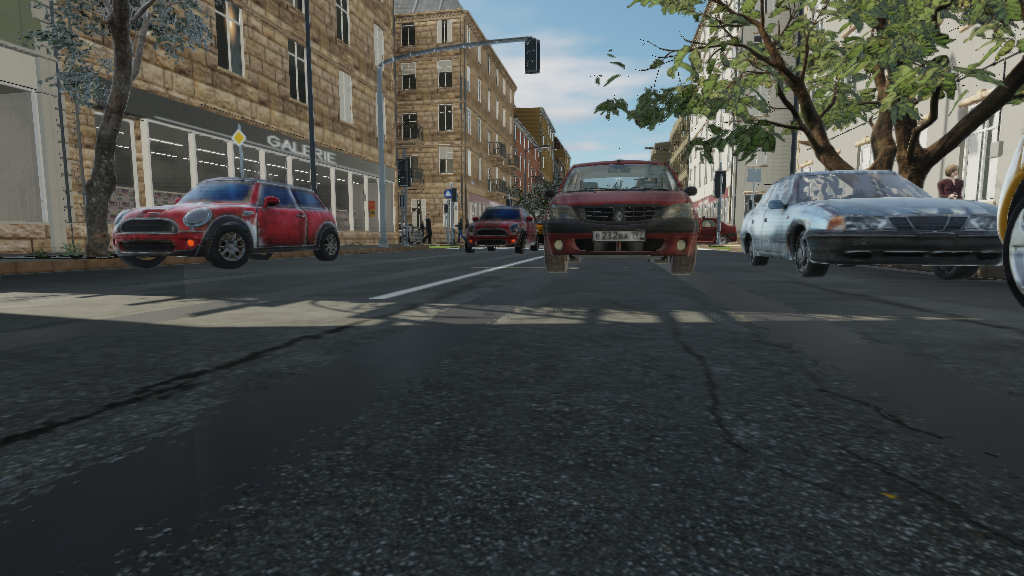
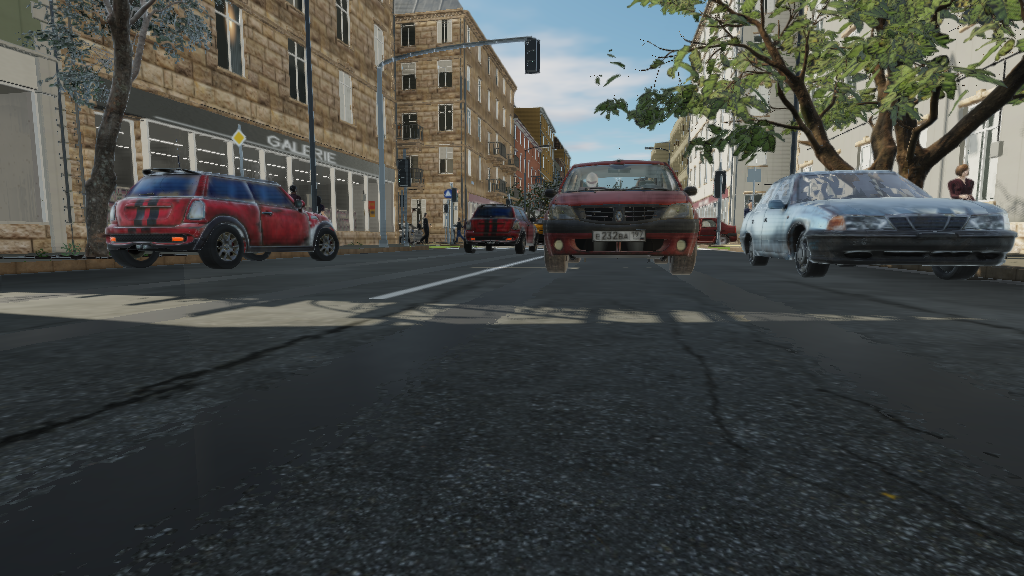
docs: the sixth pass -- behaviour, coherence, and half the draw calls
`docs/visual-overhaul-6/`: the report, the before-and-after set for all
eighteen viewpoints with the pairs, ten flagship frames at 1920 x 1080 and
six of them resolved at two samples, the walkthrough's six legs, the
line-up's stride and face pairs, the tree-cliff pair, the vehicle
orientation sheet, and the performance tables.

BEFORE is the fifth pass's own committed `after/` set, which is exactly the
state this pass started from -- same seed, same cameras, same settings, same
resolution -- so the pairs compare the content and nothing else.

`docs/screenshots/` is re-shot, because the scene changed under it and
`check-screenshots.sh` is a regression test against it; it passes with the
new set at 0.000 per cent of pixels differing.

`docs/cna-findings.md` gains this pass's notes: no new CNA defect, nothing
in any framework repository modified, and one behaviour recorded for the
first time -- a surface behind glass is lit as though the glass were not
there, which is right for a windscreen seen from outside and is why the
drivers' skin tints are a stop darker than the crowd's.

README and plan.md brought up to date: the new flags, the two atlas
scripts and the orientation rule in the pipeline section, the four new test
cases, the performance table with a Radeon row, and the limitations that
changed -- a face is now a painting with relief on it rather than a flat
one, and the largest remaining draw-call item is a person at three skinned
draws.

diff --git a/README.md b/README.md
@@ -119,10 +119,15 @@ and the shrubs in them, the manhole covers, the cafe tables and A-boards out on
 the footway by the bakeries, the crates and cartons by the shop doors, the
 refuse sacks by the bins, and a car under a cover in one bay are
 photogrammetry scans from Poly Haven, imported through CNA's own glTF pipeline
-and instanced like everything else. The trees within eighty metres of the
-junction are three scanned species -- a small tree, a broad island tree and a
-mature jacaranda -- each cut in Blender to a near and a far level of detail;
-the rest of the street's trees are the generated ones.
+and instanced like everything else. Every tree pit on the main street carries
+one of three scanned species -- a small tree, a broad island tree and a
+mature jacaranda -- each cut in Blender to a near and a far level of detail,
+and the district beyond the modelled frontage plants the same three at their
+far level. The generated trees are the fallback for a tree that has fetched
+no scans, and nowhere else: a generated tree beside a scanned one is a
+different green and a ball on a stick, and a row of them beginning where the
+scanned ones stopped was the most legible thing in the frame saying where
+the modelling ended.
 
 **The hero cafe.** One shop -- the one the shop-window and pavement-cafe
 viewpoints look into -- is built as a composed room rather than a dressed
@@ -162,11 +167,15 @@ painted: it is 240 m away.
 Punto GT, a Renault Logan, a VAZ-2104 estate, a Honda Civic, a Mini Cooper S,
 a 1980s saloon and a Mercedes Sprinter -- all CC-BY from Sketchfab authors
 publishing their own work, normalised in Blender by
-`scripts/blender-vehicles.py` and dealt into the parking bays of the main
-street within seventy metres of the junction by `CityScene::buildHeroVehicles`,
-never the same model in two neighbouring bays. They are static, so the
-reflection probes hold them and the shop windows reflect them. The loft each
-one replaces stays in the simulation and is not drawn.
+`scripts/blender-vehicles.py` and dealt into *every* parking bay of the main
+street within a hundred and twenty-six metres of the junction by
+`CityScene::buildHeroVehicles`, never the same model in two neighbouring
+bays. They are static, so the reflection probes hold them and the shop
+windows reflect them. The loft each one replaces stays in the simulation and
+is not drawn. The bays are dealt into four rings of thirty-four metres,
+because a level of detail is chosen once per instance group and one car
+three metres away would otherwise draw every copy of that model down the
+whole street at full detail.
 
 **The moving parts.** The traffic is the same eight authored cars, driven:
 `scripts/blender-vehicles.py` finds each model's four tyres, splits the
@@ -182,6 +191,18 @@ with seats and a steering wheel. Bicycles lean on the stands. They follow the ve
 their brake lamps lit, and turn through the junction on a Bézier. They are the fallback for a tree
 without the derived cars, and the simulation the authored cars are driven by.
 
+Every moving car has somebody at the wheel: a seated figure, rigid and in one
+piece, drawn inside thirty metres and placed from the vehicle class's own
+seat position. Two draws, because through a windscreen at a glancing angle
+what reads is a head, two shoulders and two arms on the wheel.
+
+And every car is *solid*. In walk mode the camera cannot pass through a
+parked one, and a moving one that drives into it eases it out through the
+nearest face at walking pace rather than carrying it down the road. So are
+the lamp columns, the signal and sign posts, the bollards, the bins, the
+hydrants, the cabinets, the benches, the planters, the bike stands, the bus
+shelter and every tree up to its clear stem.
+
 Fifty-odd people over eight variants, each one mesh per material on a
 nineteen-bone skeleton and animated on the GPU by `SkinnedPbrEffect` from
 three walks and three ways of standing built in code: an ordinary pace, a
@@ -190,7 +211,12 @@ wait that shifts its weight and looks about, one that reads a phone, one
 with the hands together. Each person is dealt a gait and a stance, a stride
 scaled to their height, a place on the footway rather than its centre line,
 and turns a corner over half a second; one in six walks with the person in
-front. The eight are built from MakeHuman's CC0 base
+front. Nobody walks through anybody: each direction of travel keeps to its
+own side of the footway, a follower takes the pace of the person in front,
+and one ordered separation pass a frame steps anyone standing in somebody
+else aside. At a crossing they take a place in a loose cluster at the kerb
+-- five abreast, three rows deep, filled from the middle out -- and step off
+in rows when the man goes green. The eight are built from MakeHuman's CC0 base
 mesh and system wardrobe -- skins, clothes, shoes, hair, eyes -- by
 `scripts/blender-people.py` with MPFB in Blender, posed with the arms down,
 their authored weights folded from MakeHuman's 137 bones onto this project's
@@ -227,10 +253,14 @@ densest.
 `docs/visual-overhaul/` holds the first overhaul's before-and-after set,
 `docs/visual-overhaul-2/` the second pass's, `docs/visual-overhaul-3/` the
 third's, `docs/visual-overhaul-4/` the fourth's, and
-`docs/visual-overhaul-5/` the fifth's: the authored cars driven, three gaits,
-dressed windows and shutters, the cafe composed further, mip chains for every
-imported image and supersampled stills, each viewpoint before beside after,
-flagship frames at 1920 × 1080, and what it cost.
+`docs/visual-overhaul-5/` the fifth's, and `docs/visual-overhaul-6/` the
+sixth's: a car that drove backwards, a walk with the legs a third of a metre
+apart, four people standing in one another at a crossing, a camera that
+walked through parked cars, thirty cars with nobody at the wheel, and the
+lofted cars and generated trees that gave away where the modelling stopped
+-- with the draw-call consolidation that paid for the fixes, each viewpoint
+before beside after, a walk through the street rather than a look at it, and
+what it cost.
 
 ## Building
 
@@ -342,7 +372,8 @@ The command line, in full, is `--help`. The ones that matter:
 | `--width`, `--height`, `--seed` | Window size and the procedural seed |
 | `--night` | Civil twilight: the sun four degrees under the horizon and the street lighting itself |
 | `--frames <n>` | Render *n* frames, then print the frame-time profile and the batch reports |
-| `--lineup` | Park one of every vehicle in a row, with a side and a front viewpoint for each |
+| `--lineup` | Park one of every vehicle in a row, with a side, a front and a driver's-window viewpoint for each, and three rows of people: standing, frozen at heel strike, and through the walk cycle |
+| `--walkthrough <dir>` | Walk the camera through the street with collision on, write a frame per leg, and report what it met: how far it got, what stopped it, how close it came to a car, whether it was ever inside one, and the worst disagreement between a moving car's drawn heading and its direction of travel |
 | `--viewpoint <n>` | Start at named viewpoint *n* |
 | `--camera x,y,z,yaw,pitch` | Start at an explicit camera, in radians |
 | `--screenshot <file.png>` | Write one frame and exit |
@@ -722,7 +753,22 @@ exports every alpha as BLEND) and no colour attribute (GLTF-209).
 `scripts/blender-vehicles.py` normalises a downloaded car: backdrop dropped,
 faced +Z at the real car's length, one mesh per material, a far level of
 detail, textures capped at 1k, glass blended and everything else opaque, and
-the triangles reversed for CNA's cull (CNA-F15). `scripts/blender-people.py`
+the triangles reversed for CNA's cull (CNA-F15). *Which* end is the nose is
+measured from the body's own shape rather than declared per model
+(`scripts/vehicle_pose.py`), because a declaration nothing checks is how a
+car shipped driving permanently in reverse; `scripts/vehicle-orientation.py`
+holds the exported files to it as a CTest. `scripts/vehicle-atlas.py` then
+merges what can be merged: every material becomes three images -- a constant
+colour is a one-pixel texture -- those go into one atlas per channel with a
+cell each, the UVs are remapped into the cell and the primitives that now
+share a material are concatenated, with each material's roughness and
+metalness kept exactly in the green and blue of the merged map. Glass, a
+material whose UVs tile, and any textured material covering more than a
+fifth of the car are left alone. The Astra goes from thirty-three draw calls
+to eight. `scripts/people-atlas.py` does the same for a person -- six parts
+to three, the skin kept apart because it is the face -- and derives a normal
+map for that skin from the high frequencies of its own albedo, which is
+where the relief in a painted face actually is. `scripts/blender-people.py`
 builds a person with MPFB, poses the arms down, bakes the targets, applies the
 masks and the armature, folds the rig's weights onto this project's nineteen
 bones and writes the mesh in this project's character format beside its
@@ -736,7 +782,7 @@ generated trees, the lofted cars and the generated figures stand in.
 ctest --test-dir build --output-on-failure
 ```
 
-Thirteen suites over the parts of the street that can be checked without a device:
+Fourteen suites over the parts of the street that can be checked without a device:
 the signal controller, the traffic model, the walk graph, mesh building, the
 layout, the settings parser, the camera frustum, the mip-chain generation the
 content pipeline depends on, the shapes and surfaces the first visual overhaul
@@ -778,7 +824,23 @@ sill and splash rises from the pavement; that a shelf of stock is mostly pale
 card; that a poster is opaque paper with print on it; and that render is
 cracked a little and not crazed.
 
-`appearance_tests` is the newest and the most opinionated: nine cases, each one
+The newest are the ones this pass's live-play defects made necessary.
+`vehicle_orientation` reads every derived car straight out of its exported
+file, with no Blender, and fails when one faces -Z or has its front wheels
+behind its rear ones. `gait_tests` gained a case that evaluates the walk and
+idle clips through both rigs the project animates -- the generated one and a
+copy of the widest imported one -- samples the whole cycle and refuses feet
+more than 30 cm apart: MakeHuman's A-posed rig diverges the legs all the way
+down, so an imported figure used to walk with its ankles a third of a metre
+either side of its centre line. `pedestrian_tests` runs a hundred and twenty
+people through four minutes of signal cycles and checks every pair at every
+sampled step, because "four people at a crossing standing in one another" is
+a state, not a frame. `traffic_system_tests` checks a car as a solid: solid
+at its centre, hollow over its roof and under its sills, longer than it is
+wide and turned the way the car is, and every point pushed out of one ends
+up outside every one.
+
+`appearance_tests` is the most opinionated: nine cases, each one
 a defect that was shipped, found by looking at a rendering, and fixed. Not one
 of them would have been caught by a pixel comparison, because they are all
 structural, and each has a number attached that says whether a surface is the
@@ -823,18 +885,28 @@ them again. The overlay's headline is an *exponential* average and its
 breakdown is one frame's stage times: right for flying a camera around, wrong
 for tuning — it once read 214 ms on a frame that took 778.
 
-| | Before the second pass (`27f92a8`) | Before the third (`83dc8e1`) | Before the fourth (`c31ae23`) | Before the fifth (`c171cec`) | Now |
-| --- | --- | --- | --- | --- | --- |
-| Scene build | 7 s from compiled content | 7 s, then 6–8 s baking 29 reflection probes | 12 s, then 7 s of probes | 17 s, then 8 s of probes | 27 s on a loaded machine, then 10 s of probes |
-| Static batches | 1 187 | 1 586 | 1 634 | 1 655 | 1 721 |
-| Textures | 198 catalogue surfaces plus per-shop signage and the imported models' own | the same, plus a poster atlas and a weathering-decal atlas | the same, fourteen of them scans at 1024 px, plus twenty scanned models' own | the same, plus forty-four scanned models', eight cars' at 1k and eight people's with mip chains | the same, every imported image now compiled with a mip chain, two cars' paint at 2k |
-| Plots, vehicles, people | 42, 74, 78 | 42, 74, 78 | 42, 74 + one covered car, 78 | 42, 74 of which 8 are authored, 78 over 8 authored people | 42, 74 all drawn as the 8 authored models, 78 over 8 people in 3 gaits |
-| Draw calls per frame | 1 361, of which 160 are skinned | 1 535 | 1 564 | 1 700 | 1 750–1 780 |
-| Shadow draw calls | 2 840 | 3 115 | 3 303 | 3 563 | 3 525 |
-| Triangles drawn | 560 k | 603 k | 1 695 k, of which the hero trees are most | 5 150 k, of which the trees are most | 5 620 k |
-| Frame, 1024×576 | 34–45 ms median | 41–51 ms median | 47–59 ms median, interleaved with 52–64 for `83dc8e1` on a busy machine | 59–62 ms median against 47 for `c31ae23` | 71–77 ms median against 72–86 for `c171cec`, both on a machine running other builds |
-| Frame, 1920×1080 | 46 ms | 47 ms | 64 ms against 60 | 76 ms | not re-measured |
-| Frame, `--night` | 34 ms | 47 ms | unchanged by this pass | 56 ms | not re-measured |
+| | Before the second pass (`27f92a8`) | Before the third (`83dc8e1`) | Before the fourth (`c31ae23`) | Before the fifth (`c171cec`) | Before the sixth (`6a40427`) | Now |
+| --- | --- | --- | --- | --- | --- | --- |
+| Scene build | 7 s from compiled content | 7 s, then 6–8 s baking 29 reflection probes | 12 s, then 7 s of probes | 17 s, then 8 s of probes | 27 s on a loaded machine, then 10 s of probes | 19–21 s, then 10 s of probes |
+| Static batches | 1 187 | 1 586 | 1 634 | 1 655 | 1 721 | 1 721 |
+| Textures | 198 catalogue surfaces plus per-shop signage and the imported models' own | the same, plus a poster atlas and a weathering-decal atlas | the same, fourteen of them scans at 1024 px, plus twenty scanned models' own | the same, plus forty-four scanned models', eight cars' at 1k and eight people's with mip chains | the same, every imported image now compiled with a mip chain, two cars' paint at 2k | the same, the cars' and the people's small materials merged into per-model atlases |
+| Plots, vehicles, people | 42, 74, 78 | 42, 74, 78 | 42, 74 + one covered car, 78 | 42, 74 of which 8 are authored, 78 over 8 authored people | 42, 74 all drawn as the 8 authored models, 78 over 8 people in 3 gaits | the same, every parked car authored and every moving one with a driver |
+| Draw calls per frame | 1 361, of which 160 are skinned | 1 535 | 1 564 | 1 700 | 1 784 | 1 407, of which 150 are skinned |
+| Shadow draw calls | 2 840 | 3 115 | 3 303 | 3 563 | 3 503 | 2 534 |
+| Triangles drawn | 560 k | 603 k | 1 695 k, of which the hero trees are most | 5 150 k, of which the trees are most | 5 620 k | 7 500 k |
+| Frame, 1024×576 (llvmpipe) | 34–45 ms median | 41–51 ms median | 47–59 ms median, interleaved with 52–64 for `83dc8e1` on a busy machine | 59–62 ms median against 47 for `c31ae23` | 71–77 ms median against 72–86 for `c171cec`, both on a machine running other builds | 54–55 ms median on a quiet one |
+| Frame, 1600×900 (Radeon 780M) | — | — | — | — | 81.3 ms (12.3 fps) | 59–63 ms (15.9–16.9 fps) |
+| Frame, 1920×1080 | 46 ms | 47 ms | 64 ms against 60 | 76 ms | not re-measured | not re-measured |
+| Frame, `--night` | 34 ms | 47 ms | unchanged by this pass | 56 ms | not re-measured | not re-measured |
+
+The sixth pass is the first that made the frame *shorter*. It did it by
+submitting less rather than by drawing less: a car went from thirty-three
+draw calls to eight and a person from six to three, both through content
+preprocessing, and the shadow pass is fitted to each cascade's slice of the
+camera frustum rather than to a disc around the camera. Three hundred and
+seventy-seven fewer draws and nine hundred and seventy fewer shadow draws,
+with a third more triangles in the frame and every parked car on the street
+an authored model. `docs/visual-overhaul-6/performance.md` has the tables.
 
 Those are from a 16-core machine that was busy with other work while it
 measured, hence the ranges; the first overhaul's table, from four cores, is in
@@ -886,6 +958,13 @@ moving car switches to its welded far copy at thirty-two metres, which took
 it back. `docs/visual-overhaul-5/performance.md` has the runs, and a profile
 on the machine's own GPU, where the frame is the shadow pass's draw calls.
 
+Against `6a40427`, the commit before the sixth pass, on the machine's own
+Radeon 780M at 1600 × 900: **81.3 ms to 59–63**, with 1 784 draw calls
+becoming 1 407 and 3 503 shadow draws becoming 2 534, while the triangles
+went from 5.6 M to 7.5 M and every parked car on the street became an
+authored model. `docs/visual-overhaul-6/performance.md` has the tables and
+the exact per-model draw counts.
+
 Against `83dc8e1`, the commit before the third pass, three interleaved pairs
 at 1024 × 576 came out 52.0 / 63.8 / 55.4 ms before against 47.2 / 52.1 /
 58.6 ms after, and one pair at 1920 × 1080 59.5 against 63.8: within noise,
@@ -903,6 +982,14 @@ materials, and alpha masking instead of blending everywhere except glass.
 
 ## Known limitations
 
+* **A person is three skinned draws and cannot be fewer without the
+  framework.** A skinned draw carries its own bone palette and cannot be
+  instanced, so fifty people is a hundred and fifty draw calls -- the
+  largest family in the frame by a factor of four. The parts that could be
+  merged have been (`scripts/people-atlas.py`); what is left is the face,
+  everything else opaque, and the hair, and going below that means either
+  putting the face through an atlas cell or a way to instance a palette,
+  which is CNA's.
 * **A skinned figure casts no shadow of its own.** CNA's cascade caster takes
   its world matrix from a uniform and knows nothing about a bone palette
   (`docs/cna-findings.md` CNA-F14), so each character carries a rigid stand-in
@@ -924,9 +1011,19 @@ materials, and alpha masking instead of blending everywhere except glass.
   lamps in their textures, so a driven one shows no lit lens when it brakes;
   the loft it stands in for did. A per-part emissive override for the parts
   named as lamps is the next step.
-* **The people's faces are painted.** MakeHuman's skins hold at four metres,
-  which is where a street is seen from, and at two metres a painted face is a
-  painted face.
+* **The people's faces are paintings with relief on them.** MakeHuman's skins
+  are colour and nothing else, so the normal map every face carries is
+  derived from the albedo's own high frequencies -- which is where a
+  nostril's depth and a lip's edge really are, and is a large improvement at
+  a metre on a matte surface. It is not skin: there is no subsurface term,
+  the hair is card sheets, and one figure's fringe hangs through an eye.
+* **The far skyline is blocks with printed façades.** The blocks that line
+  the two streets past the modelled frontage carry real window recesses,
+  shopfronts and cornices, and now the street's own scanned trees and its
+  own authored cars at their far level of detail; the scatter of taller
+  blocks beyond them, 240 m out, is still massing with a tiling image of a
+  storey on it. Walked rather than looked down, the district's own facades
+  are plainly cheaper than the modelled frontage.
 * **The hero trees, cars and people need Blender.** Their derived files are
   cut, normalised and generated by scripts that run inside Blender 4.3 with
   numpy on its Python path (`--python-use-system-env`), and the people need
@@ -942,10 +1039,6 @@ materials, and alpha masking instead of blending everywhere except glass.
 * **An imported single-sided part draws inside out** under CNA's default cull
   (CNA-F15). The derived cars and people carry reversed winding for it, and
   any other single-sided import will need the same.
-* **The far skyline is blocks with printed façades.** The blocks that line the
-  two streets past the modelled frontage now carry real window recesses,
-  shopfronts and cornices; the scatter of taller blocks beyond them, 240 m out,
-  is still massing with a tiling image of a storey on it.
 * **`--preset low` is untested on a machine that needs it.** It is built and it
   runs, but the decisions in it are reasoned rather than measured.
 * **Reflections are probe-based, static, and uncorrected for parallax.** A
@@ -984,6 +1077,11 @@ scripts/manifest-tool.py    reads the manifest for the build and the fetch
 scripts/prepare-surfaces.py turns scanned PBR sets into catalogue surfaces
 scripts/blender-tree-lod.py cuts a tree's levels of detail, in Blender
 scripts/blender-vehicles.py normalises a downloaded car into two levels of detail with its wheels split off, in Blender
+scripts/vehicle_pose.py     which end of a car is its nose, from the shape; shared by the two below
+scripts/vehicle-orientation.py
+                            checks every derived car faces +Z with its front wheels at the front, and draws the side-view sheet
+scripts/vehicle-atlas.py    merges a car's materials into one atlas so a car is a handful of draws
+scripts/people-atlas.py     the same for a person, and derives a skin normal map from the albedo
 scripts/model-textures.py   lists a compiled model's images with the colour space their mip chains are averaged in
 scripts/blender-people.py   builds the people from MakeHuman with MPFB, in Blender
 scripts/blender-vehicle-preview.py
@@ -1007,6 +1105,7 @@ docs/visual-overhaul-2/     the second pass: before and after, night, report
 docs/visual-overhaul-3/     the third pass: scans, props, trees, light
 docs/visual-overhaul-4/     the fourth pass: authored cars, people, trees, depth, the hero cafe
 docs/visual-overhaul-5/     the fifth pass: the cars driven, gaits, dressed facades, coherence
+docs/visual-overhaul-6/     the sixth pass: behaviour, collision, drivers, coherence to the vanishing point, and half the draw calls
 plan.md                     what is done, what is next
 ```
 
